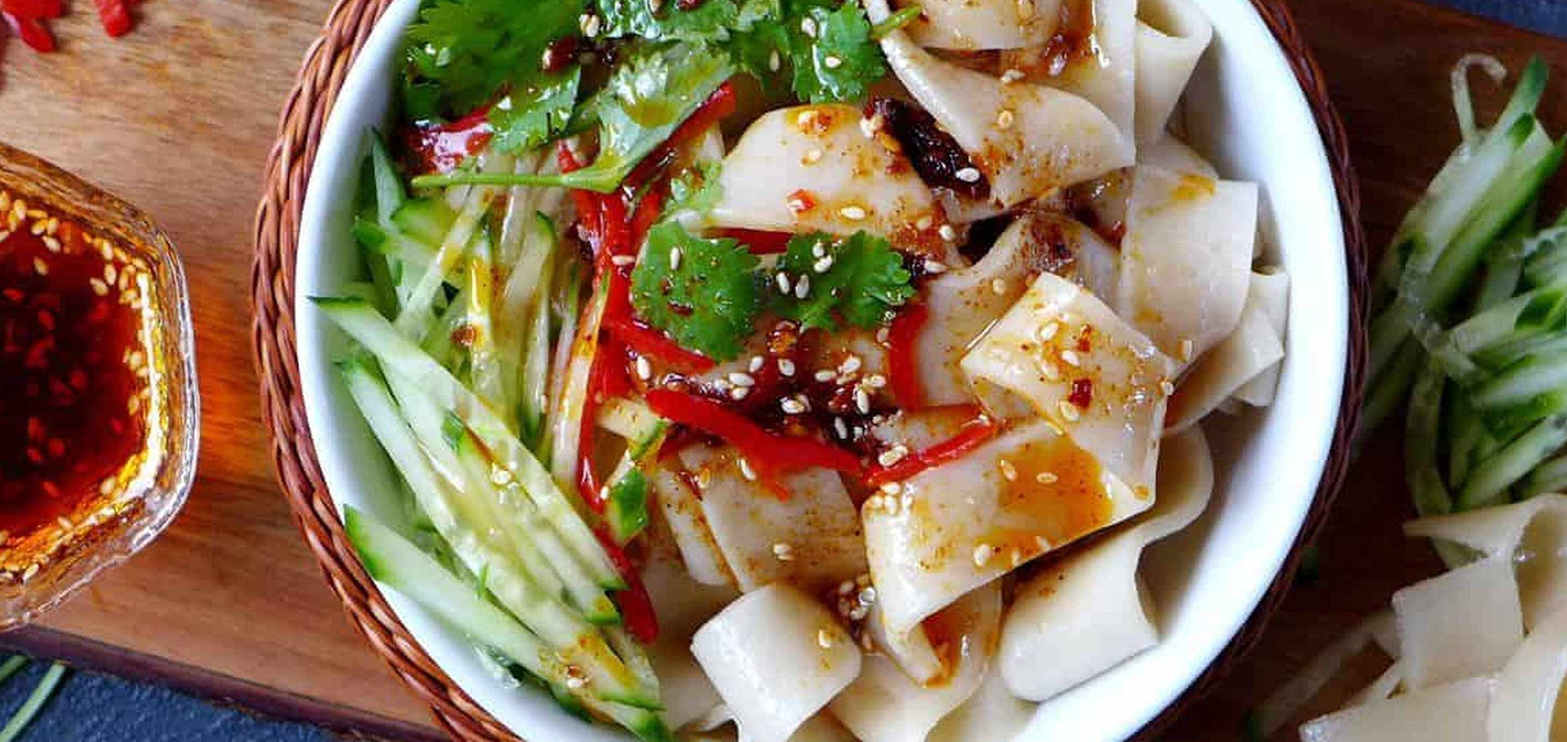
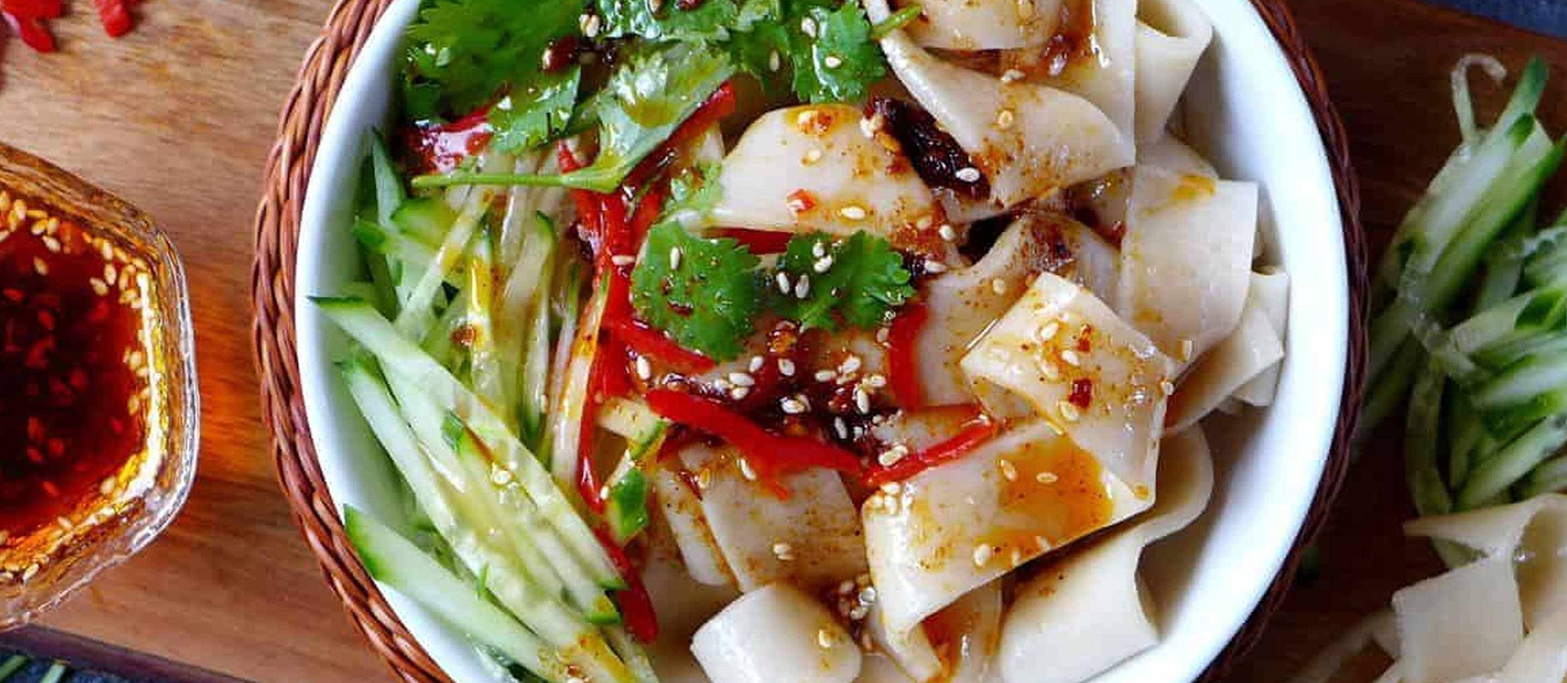
small changes

diff --git a/css/style.css b/css/style.css
@@ -87,7 +87,7 @@ nav a:hover {
 
 .home-top img {
     width: 85%;
-    height: 50rem;
+    height: auto;
     margin-left:7.5%;
     display: block;
 }
@@ -104,7 +104,7 @@ nav a:hover {
     margin-top: 40px;
     text-align: center;
     position: absolute;
-    top: 25%;
+    top: 28%;
     left: 50%;
     transform: translate(-50%, -50%);
     background-color: rgba(0, 0, 0, 0.2);
@@ -120,7 +120,7 @@ nav a:hover {
     margin-top: 40px;
     text-align: center;
     position: absolute;
-    top: 60%;
+    top: 61%;
     left: 50%;
     transform: translate(-50%, -50%);
     background-color: var(--background);
@@ -278,7 +278,7 @@ nav a:hover {
         font-size: clamp(1.35rem, 5vw, 2rem);
         padding: 12px 16px;
         margin-top: 0;
-        top: 14%;
+        top: 7%;
         width: calc(100% - 2rem);
         max-width: 22rem;
         justify-content: center;
@@ -288,7 +288,7 @@ nav a:hover {
         font-size: clamp(1rem, 4vw, 1.35rem);
         padding: 10px 14px;
         margin-top: 0;
-        top: 20%;
+        top: 13%;
         width: calc(100% - 2rem);
         max-width: 18rem;
         justify-content: center;
